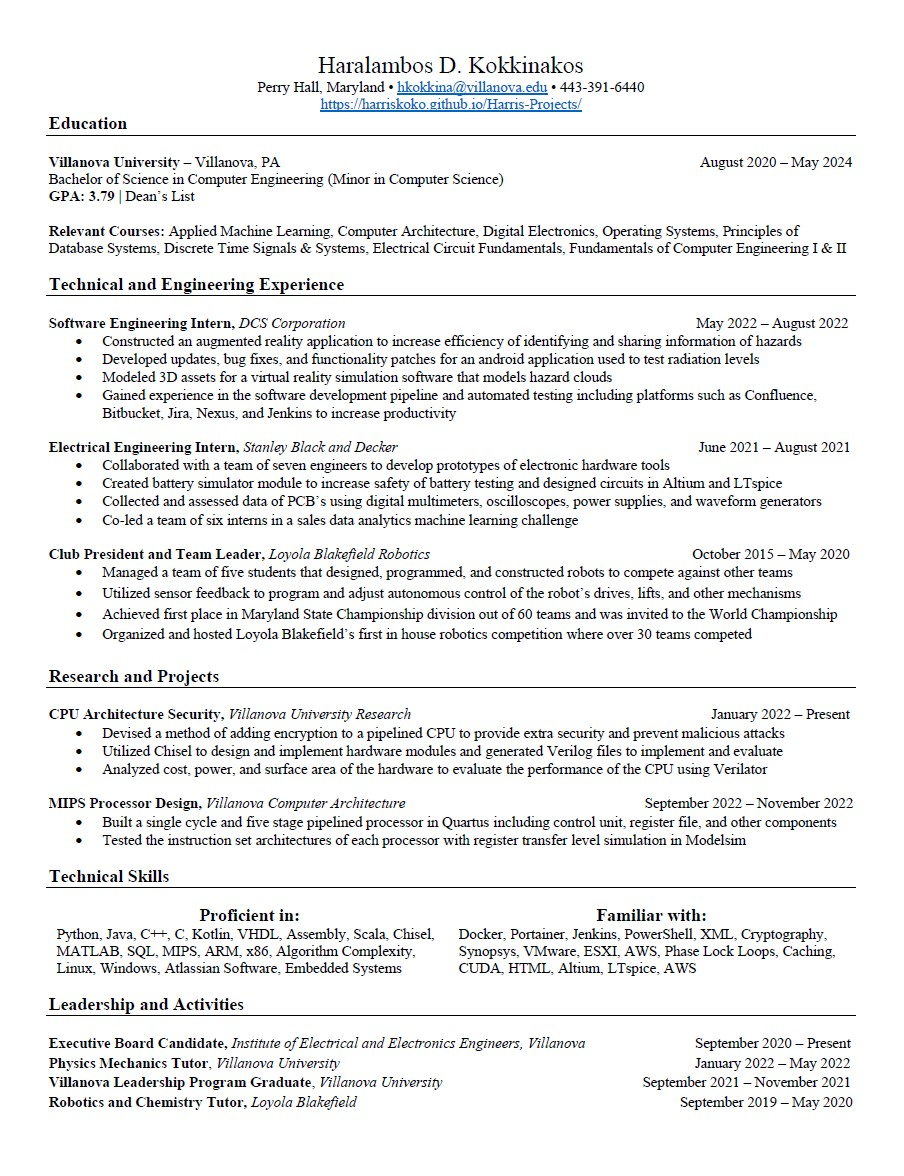
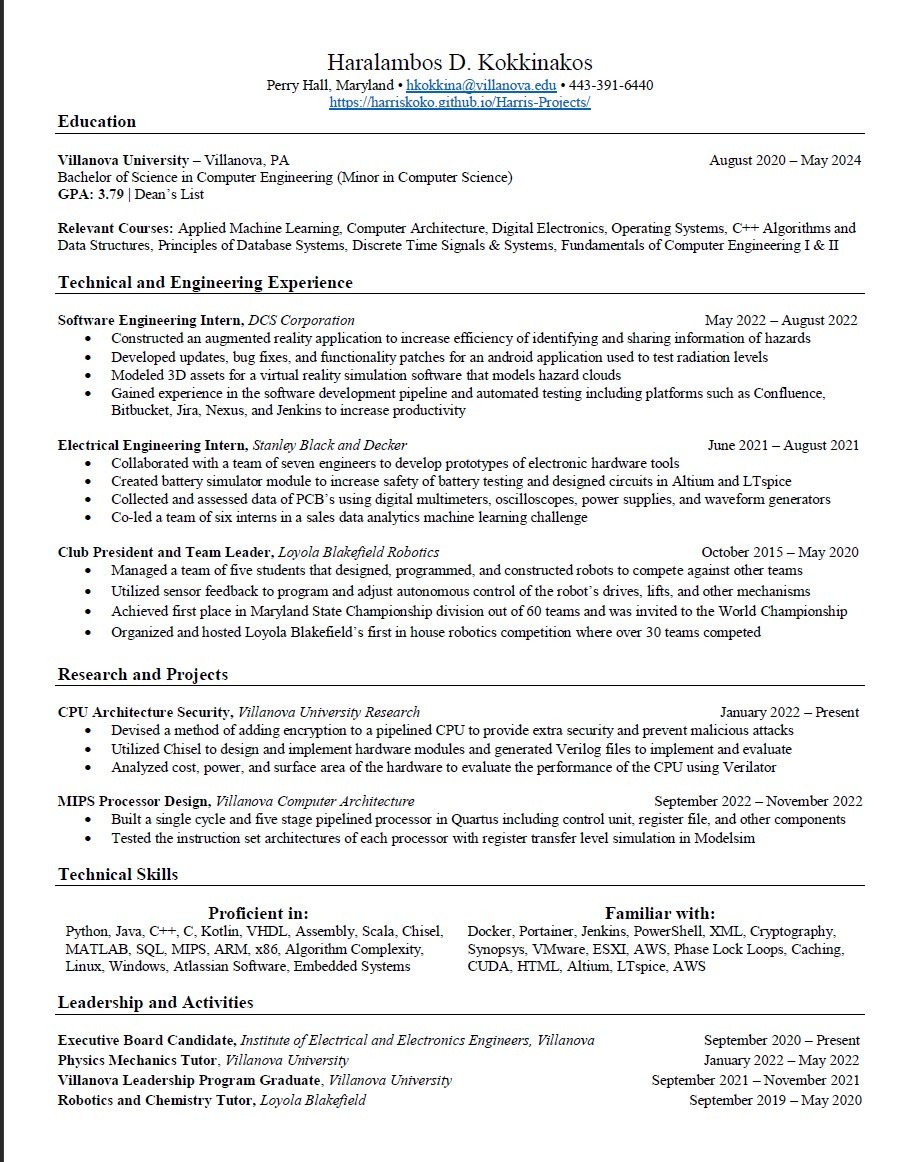
C++

Changed region(s): [[0.0, 0.0, 0.9602, 1.0], [0.7124, 0.8675, 0.9602, 0.9604], [0.7743, 0.1239, 0.9602, 0.1549]]

diff --git a/index.html b/index.html
@@ -114,7 +114,7 @@
 							
 						</p>
 						<p>
-							<b>Relevant Courses:</b> Computer Architecture, Digital Electronics, Operating Systems, Engineering Probability & Statistics, Principles of Database Systems, Discrete Structures, Electrical Circuit Fundamentals, Fundamentals of Computer Engineering I & II, Physics Mechanics, Physics Electricity & Magnetism, Differential Equations with Linear Algebra
+							<b>Relevant Courses:</b> Computer Architecture, Digital Electronics, Operating Systems, C++ Algorithms and Data Structures, Engineering Probability & Statistics, Principles of Database Systems, Discrete Structures, Electrical Circuit Fundamentals, Fundamentals of Computer Engineering I & II, Physics Mechanics, Physics Electricity & Magnetism, Differential Equations with Linear Algebra
 						</p>
 						<h3>Johns Hopkins University</h3>
 						<p>
